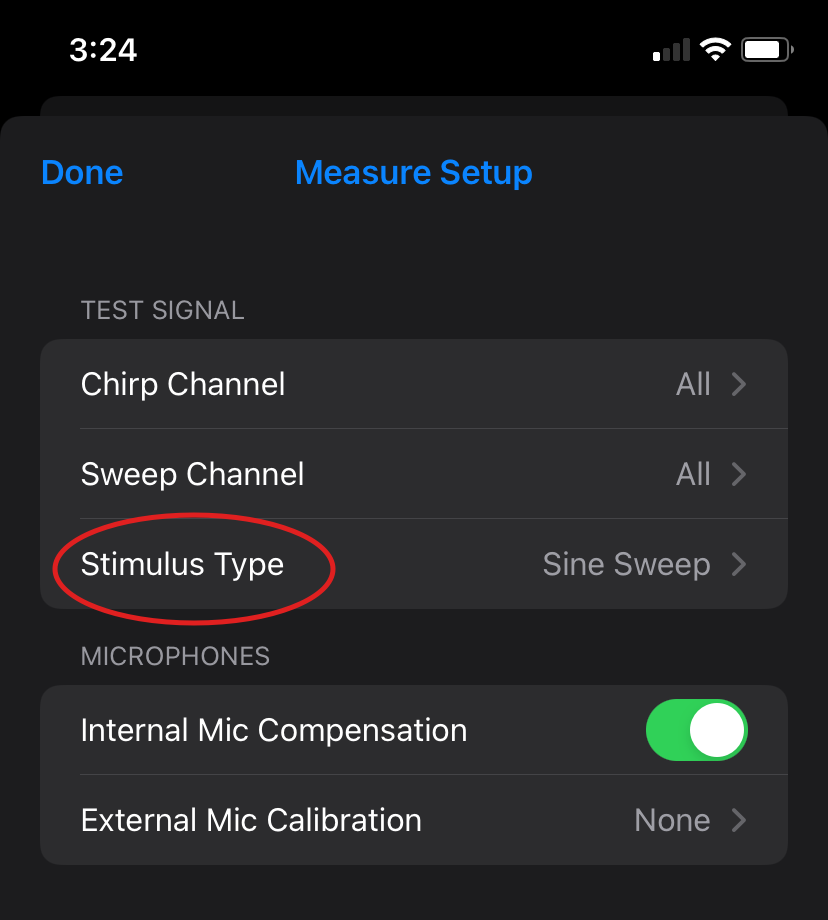
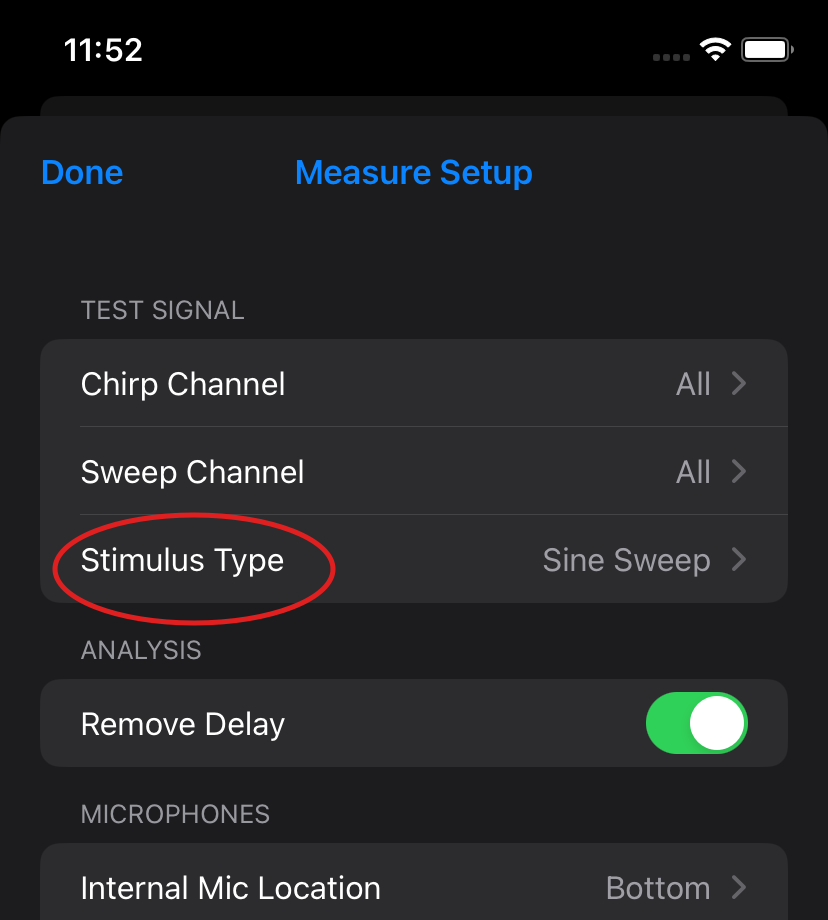
Updating for HouseCurve-4.2.0 mic controls

diff --git a/docs/usage/microphones.md b/docs/usage/microphones.md
@@ -7,12 +7,23 @@ nav_order: 2
 ---
 
 # Microphones
-HouseCurve will default to using the built in microphone of your iPhone/iPad.  These microphones have a surprisingly flat response and are quite acceptable for tuning an audio system.  When compared to an external calibrated microphone, they do show some roll off at the extreme ends of the frequency spectrum (below 60Hz and above 16 KHz).  HouseCurve compensates for this by applying a moderate boost.  See [internal compensation](../manual/measure_setup.md#internal-mic-compensation) for more information.
+HouseCurve was designed to work with built in iPhone / iPad microphones (aka "internal microphones").  By default, HouseCurve will use the bottom mic on an iPhone and the top mic on an iPad.  If an external microphone is connected, HouseCurve will use that instead.
 
+The following settings change how HouseCurve chooses microphones:
+
+* [Internal Mic Location](../manual/measure_setup.md#internal-mic-location)
+* [External Mic Enable](../manual/measure_setup.md#external-mic-enable)
+
+
+## Internal Micrphones
+
+The iPhone/iPad microphones have a surprisingly flat response and are quite acceptable for tuning an audio system.  When compared to an external calibrated microphone, they do show some roll off at the extreme ends of the frequency spectrum (below 60Hz and above 16 KHz).  HouseCurve compensates for this by applying a moderate boost.  See [internal compensation](../manual/measure_setup.md#internal-mic-compensation) for more information.
+
+If measurements don't look right, try using a [different internal mic](../manual/measure_setup.md#internal-mic-location) or removing the case.  On new devices the mics should measure about the same.
 
 ## External Microphones
 
-For additional accuracy, HouseCurve can use external microphones.  Your iPhone/iPad will automatically detect when one is plugged in and tell HouseCurve to use it.  The [setup status](../manual/plots.html#setup-status) will indicate "external microphone".  If the microphone is not detected, check cables and verify the microphone is working by recording audio with the Voice Memo application.
+HouseCurve will automatically use an external mic if one is plugged in (provided that [external mics are enabled](../manual/measure_setup.md#external-mic-enable)).  The [setup status](../manual/plots.html#setup-status) will display the name of the microphone.   If the microphone is not detected, check cables and verify the microphone is working by recording audio with the Voice Memo iOS application.
 
 HouseCurve has been tested with the following external microphones:
 
@@ -21,7 +32,7 @@ HouseCurve has been tested with the following external microphones:
 
 HouseCurve supports the following [curve file format](../manual/file_formats.md#curves) for microphone calibration.
 
-If you are getting strange measurements, try another microphone.  The [iPhone EarPods](https://www.apple.com/shop/product/MMTN2AM/A/earpods-with-lightning-connector) buried in your desk drawer are great for testing adapters, cables, etc.
+If you are getting strange measurements, try another microphone.  The [iPhone EarPods](https://www.apple.com/shop/product/MMTN2AM/A/earpods-with-lightning-connector) buried in your desk drawer are great for testing adapters, cables, etc.  You can also compare to the internal mics.
 
 
 ## CarPlay

diff --git a/docs/manual/measure_setup.md b/docs/manual/measure_setup.md
@@ -43,6 +43,10 @@ When averaging measurements, this setting should be enabled.  This ensures the a
 When time aligning speakers, this setting should be disabled.  The change in phase slope and group delay is needed to measure alignment.
 
 
+## Internal Mic Location
+Choose which internal microphone to use for measurement.  By default, HouseCurve uses the bottom microphone on iPhones and the top microphone on iPads.
+
+
 ## Internal Mic Compensation
 The average built in iPhone/iPad is reasonably flat, but begins to roll off below ~60 Hz and above ~16 KHz.  Internal Mic Compensation applies a moderate boost to correct this.  The boost curve is +6 dB at 30 Hz, tapering to zero at 60 Hz.  Likewise, at 16 KHz, the boost is zero and this increases to 6 dB at 20 KHz.
 
@@ -57,6 +61,9 @@ Microphone calibrations can be loaded tapping + at the top of the External Mic C
 HouseCurve uses the following [curve file format](file_formats.md#curves) for microphone calibration.
 
 
+## External Mic Enable
+HouseCurve will use an external microphone if one is connected to the iPhone / iPad.  Disable this option to force HouseCurve to use the internal microphone.
 
+This is useful when connected to USB devices (ex: DACs) that appear as input and output to the iPhone / iPad.
 
 
